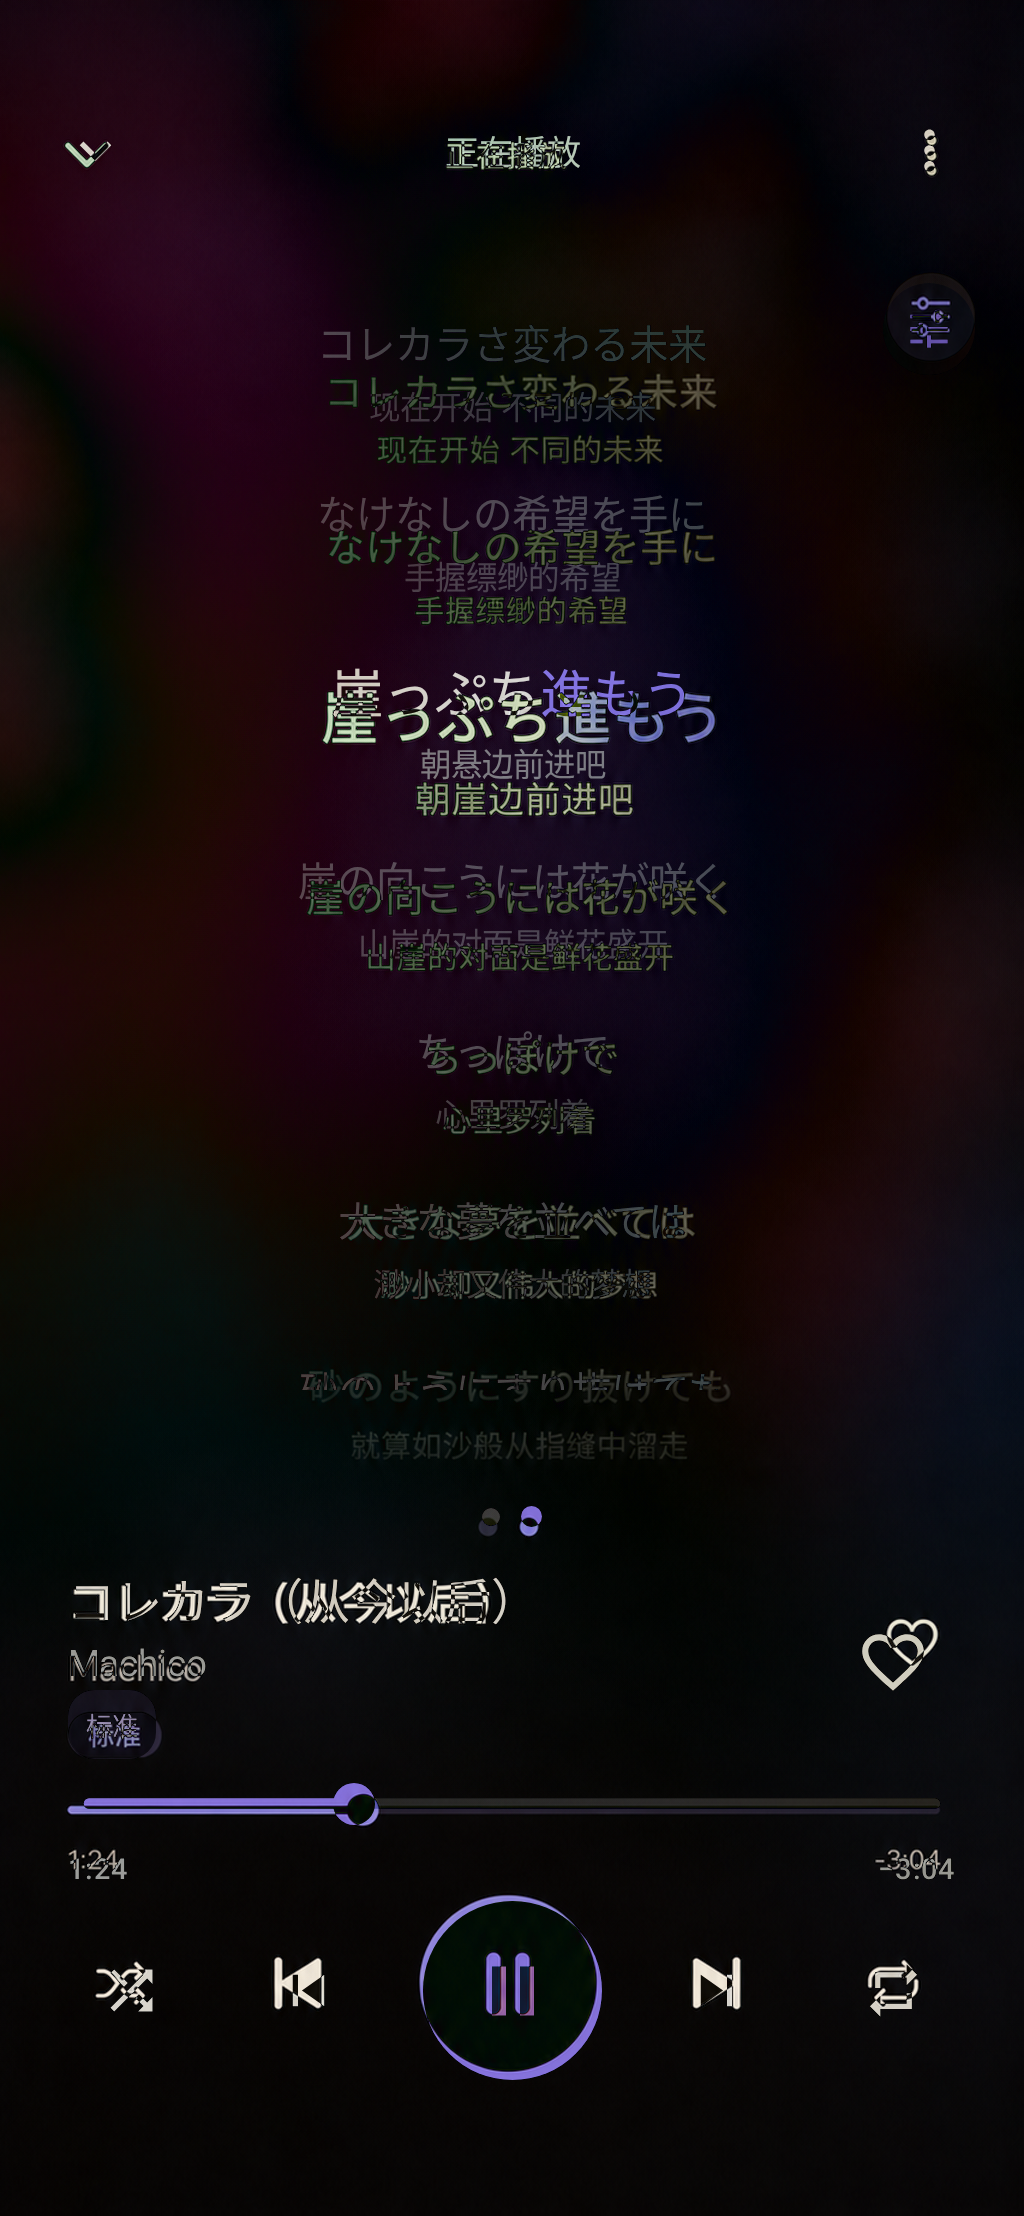
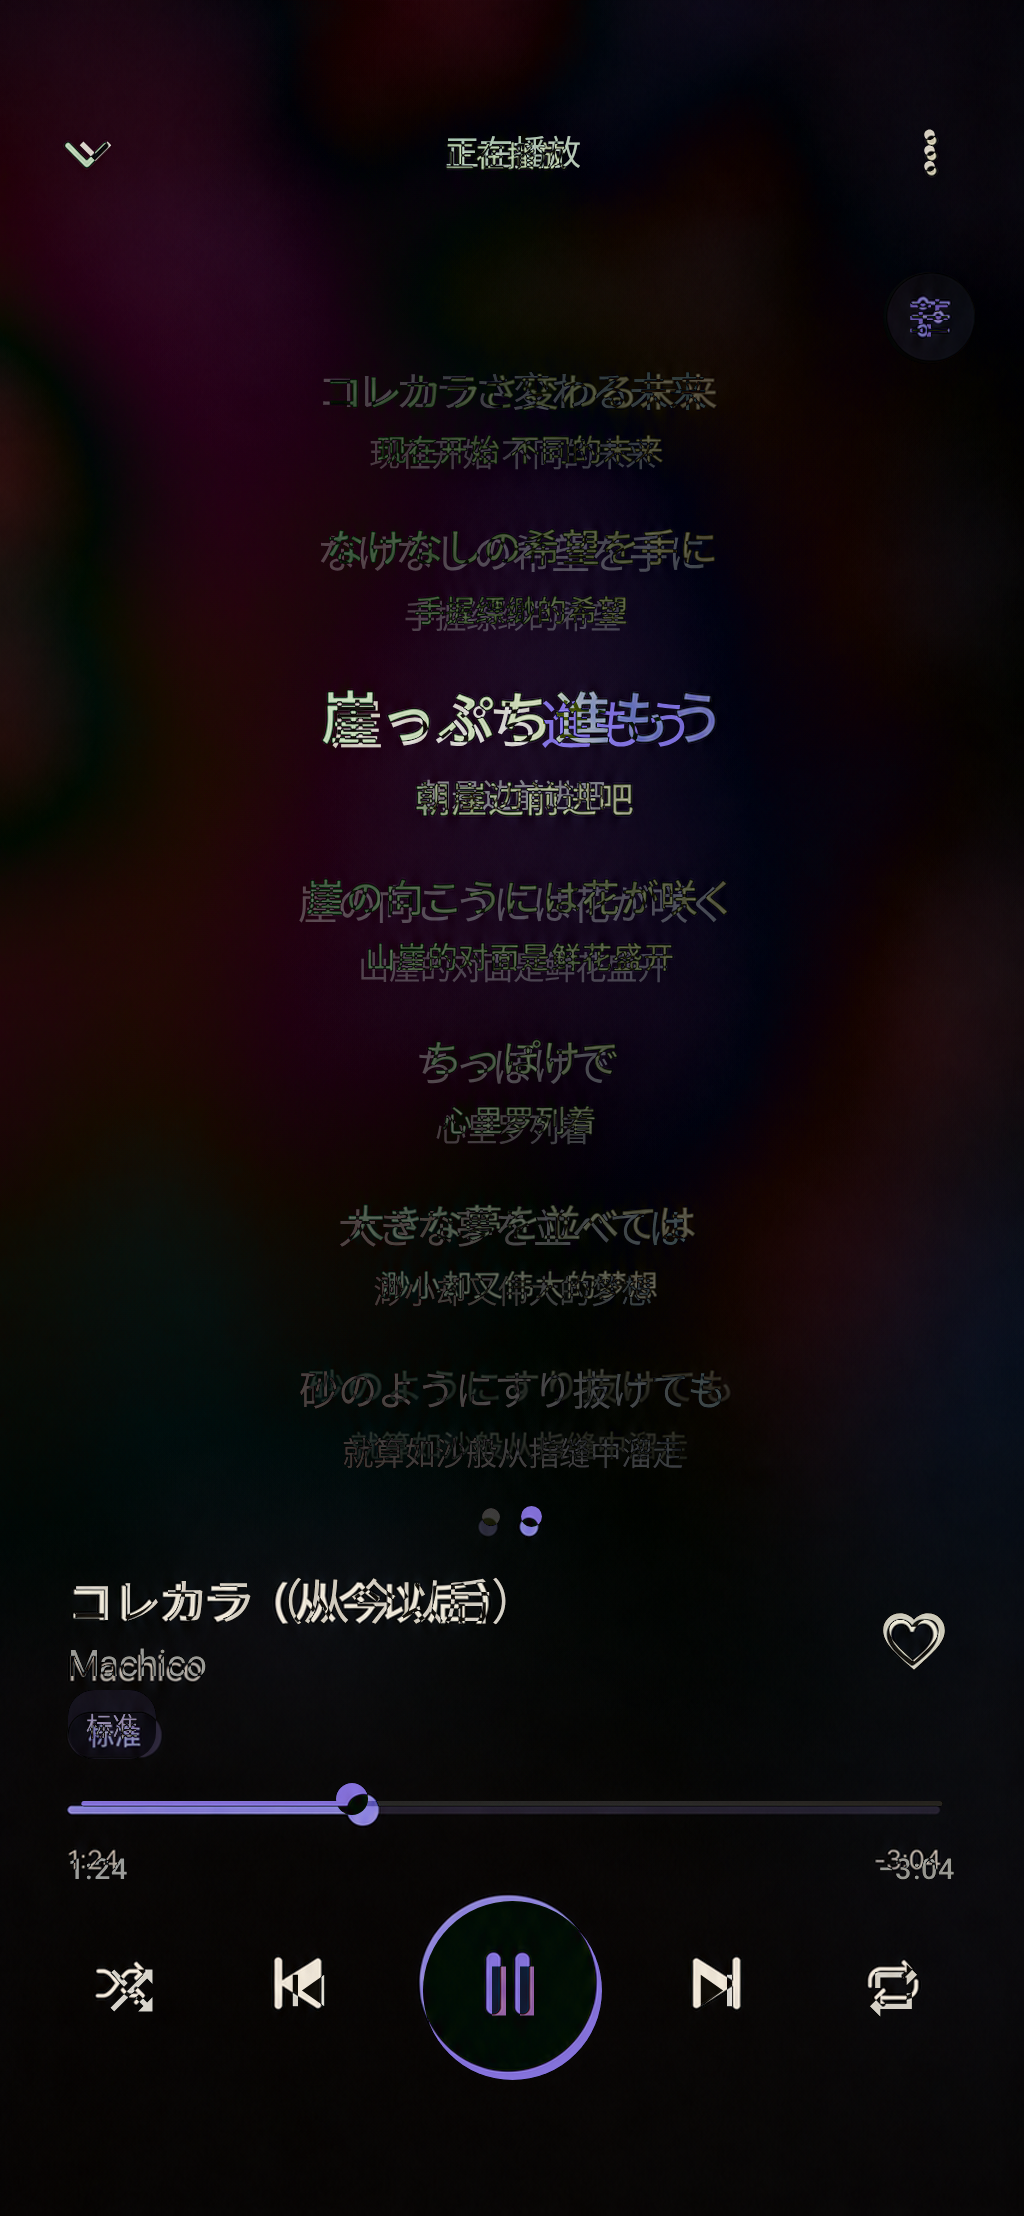
fix(player): align confirmed lyrics states

diff --git a/feature/player/src/main/kotlin/cn/james/music/feature/player/PlayerScreen.kt b/feature/player/src/main/kotlin/cn/james/music/feature/player/PlayerScreen.kt
@@ -350,7 +350,7 @@ private fun PlayerLyricsPage(
         Box(modifier = Modifier.fillMaxWidth().weight(1f)) {
             LyricsViewport(
                 state = lyricsState,
-                modifier = Modifier.fillMaxSize().padding(horizontal = 28.dp, vertical = 30.dp),
+                modifier = Modifier.fillMaxSize().padding(start = 28.dp, top = 30.dp, end = 28.dp, bottom = 12.dp),
                 onRetry = onRetryLyrics,
                 onLyricClick = onLyricClick,
             )
@@ -358,7 +358,7 @@ private fun PlayerLyricsPage(
                 modifier =
                     Modifier
                         .align(Alignment.TopEnd)
-                        .padding(top = 12.dp, end = 12.dp)
+                        .padding(top = 8.dp, end = 12.dp)
                         .size(MoeKoeTheme.dimensions.minimumTouchTarget)
                         .clickable(onClick = onLyricsSettings),
                 contentAlignment = Alignment.Center,
@@ -370,11 +370,11 @@ private fun PlayerLyricsPage(
                     contentColor = PlayerAccent,
                 ) {
                     Box(contentAlignment = Alignment.Center) {
-                    Icon(
-                        imageVector = Icons.Default.Tune,
-                        contentDescription = stringResource(R.string.player_lyrics_settings),
+                        Icon(
+                            imageVector = Icons.Default.Tune,
+                            contentDescription = stringResource(R.string.player_lyrics_settings),
                             modifier = Modifier.size(19.dp),
-                    )
+                        )
                     }
                 }
             }
@@ -410,13 +410,14 @@ private fun LyricsViewport(
 ) {
     Box(modifier = modifier, contentAlignment = Alignment.Center) {
         when (state) {
-            PlayerLyricsUiState.Loading -> LyricsLoadingState()
+            PlayerLyricsUiState.Loading -> LyricsLoadingState(modifier = Modifier.offset(y = (-45).dp))
             PlayerLyricsUiState.Empty ->
                 LyricsMessageState(
                     icon = Icons.Default.MusicOff,
                     title = stringResource(R.string.player_lyrics_empty_title),
                     message = stringResource(R.string.player_lyrics_empty_message),
                     onRetry = onRetry,
+                    modifier = Modifier,
                 )
 
             PlayerLyricsUiState.Offline ->
@@ -425,6 +426,7 @@ private fun LyricsViewport(
                     title = stringResource(R.string.player_lyrics_offline_title),
                     message = stringResource(R.string.player_lyrics_offline_message),
                     onRetry = onRetry,
+                    modifier = Modifier,
                 )
 
             PlayerLyricsUiState.Error ->
@@ -433,16 +435,22 @@ private fun LyricsViewport(
                     title = stringResource(R.string.player_lyrics_error_title),
                     message = stringResource(R.string.player_lyrics_error_message),
                     onRetry = onRetry,
+                    modifier = Modifier,
                 )
 
-            is PlayerLyricsUiState.Content -> LyricsContent(state, onLyricClick)
+            is PlayerLyricsUiState.Content ->
+                LyricsContent(
+                    state = state,
+                    onLyricClick = onLyricClick,
+                    modifier = Modifier.offset(y = lyricsContentOffset(state)),
+                )
         }
     }
 }
 
 @Composable
-private fun LyricsLoadingState() {
-    Column(horizontalAlignment = Alignment.CenterHorizontally) {
+private fun LyricsLoadingState(modifier: Modifier = Modifier) {
+    Column(modifier = modifier, horizontalAlignment = Alignment.CenterHorizontally) {
         CircularProgressIndicator(
             modifier = Modifier.size(32.dp),
             color = PlayerAccent,
@@ -474,8 +482,9 @@ private fun LyricsMessageState(
     title: String,
     message: String,
     onRetry: () -> Unit,
+    modifier: Modifier = Modifier,
 ) {
-    Column(horizontalAlignment = Alignment.CenterHorizontally) {
+    Column(modifier = modifier, horizontalAlignment = Alignment.CenterHorizontally) {
         Surface(
             modifier = Modifier.size(52.dp),
             shape = CircleShape,
@@ -524,10 +533,11 @@ private fun LyricsMessageState(
 private fun LyricsContent(
     state: PlayerLyricsUiState.Content,
     onLyricClick: (Long) -> Unit,
+    modifier: Modifier = Modifier,
 ) {
     val textSizes = lyricsTextSizes(state.textSize)
     Column(
-        modifier = Modifier.fillMaxWidth().verticalScroll(rememberScrollState()),
+        modifier = modifier.fillMaxWidth().verticalScroll(rememberScrollState()),
         horizontalAlignment = Alignment.CenterHorizontally,
         verticalArrangement = Arrangement.Center,
     ) {
@@ -595,9 +605,22 @@ private data class LyricsTextSizes(
 
 private fun lyricsTextSizes(size: PlayerLyricsTextSize): LyricsTextSizes =
     when (size) {
-        PlayerLyricsTextSize.Standard -> LyricsTextSizes(15.sp, 22.sp, 20.sp, 27.sp, 12.sp, 18.sp, 4.dp, 20.dp, 24.dp)
-        PlayerLyricsTextSize.Large -> LyricsTextSizes(19.sp, 27.sp, 25.sp, 32.sp, 15.sp, 22.sp, 5.dp, 26.dp, 29.dp)
-        PlayerLyricsTextSize.Largest -> LyricsTextSizes(22.sp, 30.sp, 28.sp, 37.sp, 18.sp, 26.sp, 6.dp, 31.dp, 34.dp)
+        PlayerLyricsTextSize.Standard -> LyricsTextSizes(15.sp, 22.sp, 20.sp, 27.sp, 12.sp, 18.sp, 4.dp, 17.dp, 21.dp)
+        PlayerLyricsTextSize.Large -> LyricsTextSizes(19.sp, 27.sp, 25.sp, 32.sp, 15.sp, 22.sp, 5.dp, 23.dp, 26.dp)
+        PlayerLyricsTextSize.Largest -> LyricsTextSizes(22.sp, 30.sp, 28.sp, 37.sp, 18.sp, 26.sp, 6.dp, 28.dp, 31.dp)
+    }
+
+private fun lyricsContentOffset(state: PlayerLyricsUiState.Content) =
+    when (state.textSize) {
+        PlayerLyricsTextSize.Standard ->
+            when {
+                state.lines.all { it.secondary == null } -> (-65).dp
+                state.lines.size <= 4 -> (-58).dp
+                else -> 18.dp
+            }
+
+        PlayerLyricsTextSize.Large -> (-29).dp
+        PlayerLyricsTextSize.Largest -> (-44).dp
     }
 
 @Composable
@@ -748,7 +771,7 @@ private fun PlayerControls(
                 modifier =
                     Modifier
                         .size(MoeKoeTheme.dimensions.minimumTouchTarget)
-                        .then(if (compactLayout) Modifier else Modifier.offset(x = 14.dp, y = (-8).dp)),
+                        .offset(x = if (compactLayout) 8.dp else 14.dp, y = (-8).dp),
             ) {
                 Icon(
                     imageVector = Icons.Default.FavoriteBorder,
@@ -912,7 +935,7 @@ private fun PlayerProgress(
         thumb = {
             Box(
                 Modifier
-                    .size(if (compact) 16.dp else 12.dp)
+                    .size(12.dp)
                     .background(
                         color = if (enabled && duration > 0) activeColor else activeColor.copy(alpha = 0.38f),
                         shape = CircleShape,
@@ -924,7 +947,6 @@ private fun PlayerProgress(
                 progress = sliderState.value / duration.coerceAtLeast(1).toFloat(),
                 activeColor = if (enabled && duration > 0) activeColor else activeColor.copy(alpha = 0.38f),
                 inactiveColor = if (enabled && duration > 0) inactiveColor else inactiveColor.copy(alpha = 0.38f),
-                compact = compact,
             )
         },
     )
@@ -942,9 +964,8 @@ private fun PlayerProgressTrack(
     progress: Float,
     activeColor: Color,
     inactiveColor: Color,
-    compact: Boolean,
 ) {
-    val trackHeight = if (compact) 4.dp else 2.dp
+    val trackHeight = 2.dp
     Canvas(Modifier.fillMaxWidth().height(trackHeight)) {
         val centerY = size.height / 2f
         val strokeWidth = trackHeight.toPx()

diff --git a/docs/plans/04-content-and-player-ui.md b/docs/plans/04-content-and-player-ui.md
@@ -39,7 +39,7 @@
 - 播放页仅消费 `:app` 映射的不可变 UI 状态和事件，不直接依赖 `:playback`；高频进度由独立 `State` 交给进度子组合读取。标准视口不依赖尺寸分档，只有内容实际溢出时允许纵向滚动。
 - 全屏封面已覆盖正常、暂停、缓冲、控制器未连接、封面失败、未知时长、空播放项及 `1.5×`/`2.0×` 字体截图基准；真机导航、手势、队列返回优先级和播放命令仍待用户手动验收。
 - 歌词协议、KRC 解包、成熟解析库、成功缓存、取消和失败恢复已完成独立 [`12-kugou-lyrics`](../reference-audits/12-kugou-lyrics.md) 审计；`07-player-lyrics.png` 与 `23a` 至 `23h` 加载、空、离线、错误和大字体状态均已确认，并已形成独立 [`PLAYER_LYRICS_LAYOUT_SPEC.md`](../design/PLAYER_LYRICS_LAYOUT_SPEC.md) 视觉合同。歌词 Compose 先按全部确认稿完成纯 UI 和截图，再单独接入歌词状态与交互。
-- 全屏歌词页纯 UI 已按 [`PLAYER_LYRICS_LAYOUT_SPEC.md`](../design/PLAYER_LYRICS_LAYOUT_SPEC.md)、`07-player-lyrics.png` 与 `23a` 至 `23h` 完成复刻：封面/歌词使用真实双页 Pager，歌词页复用顶部栏、歌曲信息、进度和核心播放控制；加载、空、离线、错误、原文、翻译、音译及歌词 `150%` / `200%` 显示档位均有独立截图和同画布对照，指定 ELE-AL00 / API 29 App instrumentation 24/24 通过。真实歌词加载、缓存、同步与点击 seek 保持为后续业务切片。
+- 全屏歌词页纯 UI 已按 [`PLAYER_LYRICS_LAYOUT_SPEC.md`](../design/PLAYER_LYRICS_LAYOUT_SPEC.md)、`07-player-lyrics.png` 与 `23a` 至 `23h` 完成第二轮同画布复刻：纠正旧证据未拦住的不同歌词密度整体下沉、加载态锚点、行间距，以及 Compact 收藏与进度细节；封面/歌词仍使用真实双页 Pager，歌词页复用顶部栏和底部播放骨架。加载、空、离线、错误、原文、翻译、音译及 `150%` / `200%` 均有逐状态设计并排证据；真实歌词加载、缓存、同步与点击 seek 保持为后续业务切片。
 - Room v4 已新增脱敏键控的 KRC 成功缓存表；`3→4`、完整 `1→4` 与 DAO 覆盖已随本轮数据库回归在用户指定真机通过。
 - 首页缓存已将 Room 升至 v5，新增按 `home:v1:anonymous` / `home:v1:user:<userid>` 分区的可观察完整快照 DAO；`4→5`、完整 `1→5`、DAO 覆盖与既有数据库回归已在 ELE-AL00 / API 29 真机 13/13 通过。
 - 首页 Repository 已完成 Room stale-while-revalidate、15 分钟 TTL、匿名/用户分区自动切换与刷新、完整快照提交、部分失败保护、single-flight、强制刷新和会话双代际隔离；15 项 JVM 测试覆盖旧缓存首发、自动刷新问题、取消、缓存损坏和并发竞态。

diff --git a/docs/design/PLAYER_LYRICS_LAYOUT_SPEC.md b/docs/design/PLAYER_LYRICS_LAYOUT_SPEC.md
@@ -42,6 +42,14 @@ runtimeSize = designSize × s
 
 标准 `390 × 844dp` 页面不产生整页纵向滚动。歌词视窗与底部播放区是稳定的两个区域；歌词列表自己的滚动、跟随和点击 seek 在后续交互切片实现，不能让内容高度改变分页点或播放器控制的位置。
 
+### Compact 视觉锚点
+
+- 歌词视窗相对可用区域使用 `start = 28dp`、`top = 30dp`、`end = 28dp`、`bottom = 12dp`；调节入口使用 `top = 8dp`、`end = 12dp`。
+- Translation 主态相对视窗中心下移 `18dp`；Loading 上移 `45dp`；Empty、Offline、Error 保持视窗中心。状态位移只作用于歌词视窗，不得移动分页点或底部播放器骨架。
+- Standard 原文-only 上移 `65dp`，Phonetic 上移 `58dp`，Large 上移 `29dp`，Largest 上移 `44dp`。这些值来自 `07`、`23e` 至 `23h` 的同画布锚点复核，不是歌词业务或设备型号分支。
+- Standard 普通行/当前行间距为 `17dp / 21dp`，Large 为 `23dp / 26dp`，Largest 为 `28dp / 31dp`。
+- Compact 共享播放区进度轨固定为 `2dp`、滑块为 `12dp`；收藏入口相对触控区偏移 `x = 8dp`、`y = -8dp`。触控区仍不得小于 `48dp`。
+
 ## 歌词内容层级
 
 - 非当前原文：约 `15sp`、中等字重、低对比前景；行间距按设计坐标约 `44` 单位。
@@ -71,3 +79,4 @@ runtimeSize = designSize × s
 3. 再分别截图 Loading、Empty、Offline、Error、Original、Phonetic、`1.5×` 和 `2.0×`；状态切换只能改变歌词视窗内容和系统字体带来的自然排版。
 4. 固定区域边界或中心偏差不得超过 `2` 个设计单位，相邻区域累计纵向漂移不得超过 `3` 个设计单位；字体栅格和 Material 图标笔画只作为遮罩差异。
 5. 视觉切片通过后，业务切片再验证首次进入加载、切歌取消、重试、缓存、逐行跟随、手动滚动暂停跟随与点击 seek。
+6. 截图基线存在不等于视觉验收通过；每次 UI 调整仍必须把确认稿与当前实现放入同一画布并排、叠加和差异复核，修正可见偏差后才能更新基线。

diff --git a/docs/design/evidence/player-lyrics-2026-08-08.md b/docs/design/evidence/player-lyrics-2026-08-08.md
@@ -15,9 +15,11 @@
 
 ## 结论
 
+- 第二轮复核否决了旧证据中“截图基线即通过”的结论：旧实现把不同歌词密度统一按容器自然居中，导致加载态以及原文、音译和大字号状态整体下沉；底部 Compact 进度轨、滑块和收藏位置也与确认稿不一致。
+- 本轮逐状态按同画布重新校准：Translation、Original、Phonetic、150% 和 200% 的当前行与上下文行锚点分别对齐；Loading 单独上移，Empty、Offline、Error 保持设计稿中心，且所有调整只发生在歌词视窗内。
 - 歌词页与封面页使用真实 `HorizontalPager`，顶部栏和底部播放状态仍来自同一播放器页面；歌词页第二枚分页点高亮。
 - 歌词调节入口、歌词视窗、歌曲信息、品质、收藏、进度与五项核心控制保持确认稿层级；底部安全留白经同画布对照校准。
 - 加载、空、离线和错误只替换歌词视窗；重试按钮使用已确认的全局 Filled 主按钮视觉，不用系统默认色或假成功反馈。
 - 原文、翻译、音译及当前行分段强调已覆盖；150% / 200% 是歌词显示档位，只改变歌词视窗字号和密度，不错误放大顶部栏与播放控制。
 - 当前切片只交付可复用的纯 UI 状态和事件端口。歌词仓库加载、缓存、逐行同步、手动滚动暂停跟随和点击 seek 由后续独立业务切片接入。
-- 指定 ELE-AL00 / API 29 的 App instrumentation 回归 24/24 通过，其中包含 MiniPlayer 进入全屏播放器、左滑到歌词页、加载态与歌词设置入口验证；未创建或启动模拟器。
+- `git diff --check`、`spotlessCheck`、播放器 JVM 单测、9 组截图校验、播放器 lint、Debug App 构建与 AndroidTest 编译均通过；指定 ELE-AL00 / API 29 的 App instrumentation 回归 25/25 通过，未创建或启动模拟器。
